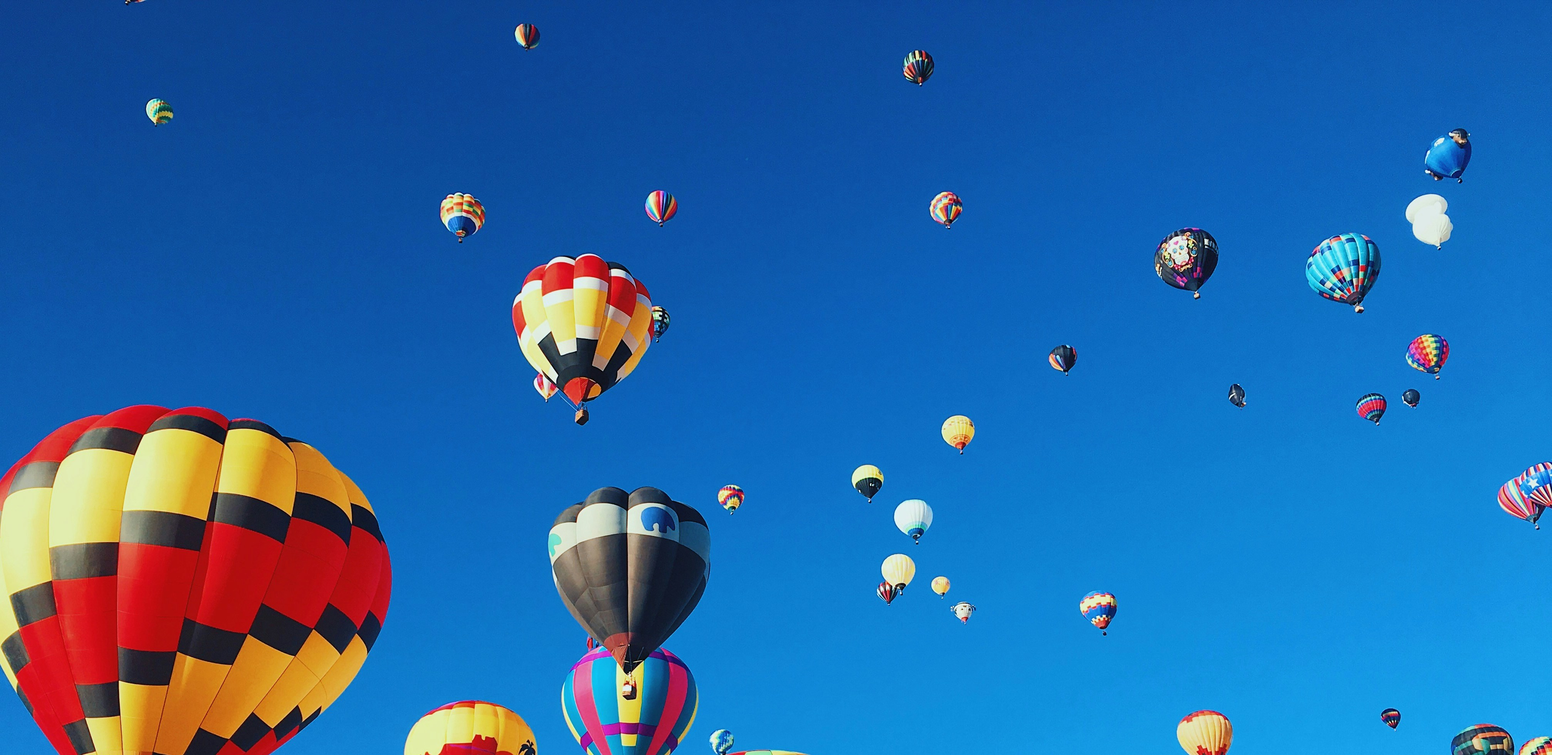
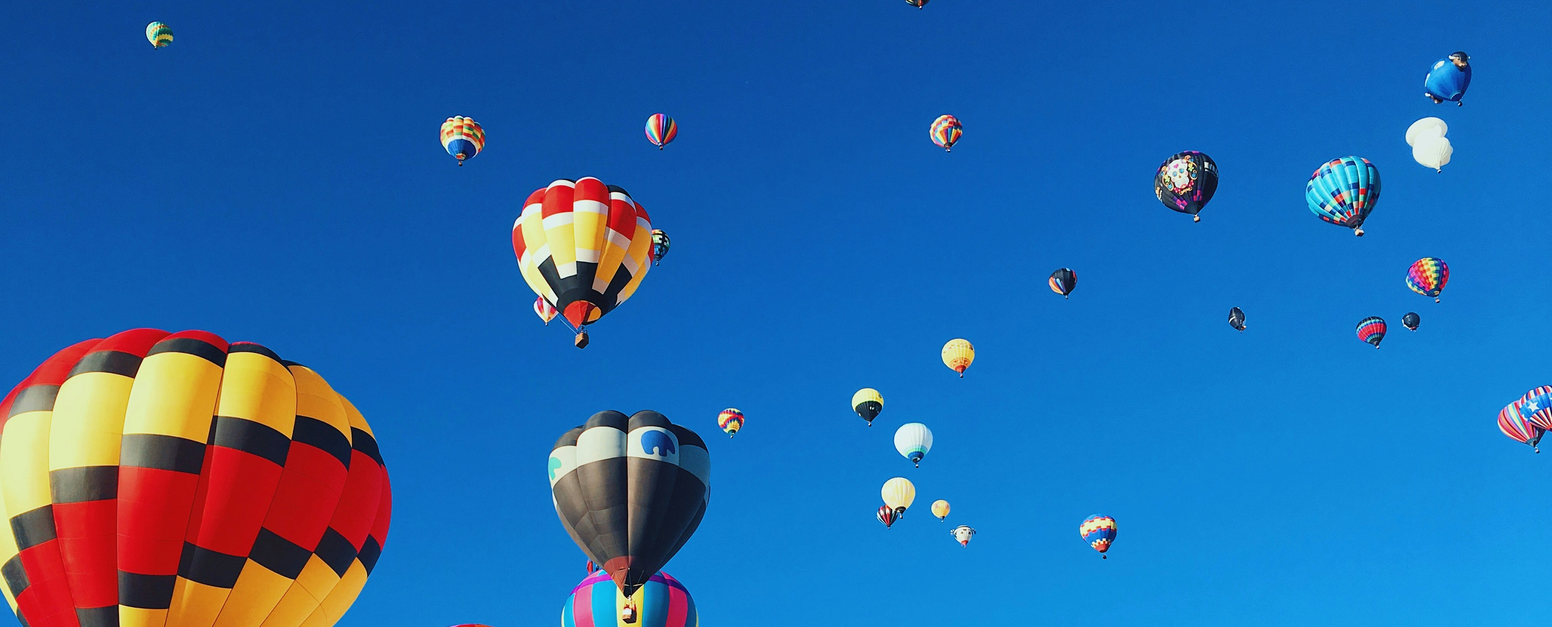
udpate first figure

diff --git a/_site/index.html b/_site/index.html
@@ -140,13 +140,16 @@
 </style>
 
 <section class="workshop-section" id="workshop">
-    <div class="container text-center" style="position: relative; background-image: url('img/balloons_2.png'); background-size: cover; height: 400px; border-radius: 15px; box-shadow: 0px 10px 30px rgba(0, 0, 0, 0.2); overflow: hidden;">
+    <div class="container text-center" style="position: relative; background-image: url('img/balloons.jpg'); background-size: cover; height: 400px; border-radius: 15px; box-shadow: 0px 10px 30px rgba(0, 0, 0, 0.2); overflow: hidden;">
+        <a href="https://unsplash.com/@kajhinkson?utm_content=creditCopyText&utm_medium=referral&utm_source=unsplash"><p style="position: absolute; bottom: 10px; right: 10px; margin: 0; font-size: 14px; color: white; background-color: rgba(0, 0, 0, 0.5); padding: 5px 10px; border-radius: 5px;">
+            Photo by Kyle Hinkson on Unsplash
+          </p></a>
         <div class="row" style="position: absolute; top: 50%; transform: translateY(-50%); width: 100%; z-index: 2;">
             <div class="col-lg-12 text-center">
                 <h2 class="section-heading" style="color: rgb(255, 255, 255); font-size: 54px; z-index: 2;"><strong>Welcome!</strong></h2>
                 <hr class="primary" style="border-color: #fefdfd;">
                 <p></p>
-                <p class="text-faded" style="color: rgb(56, 55, 55); font-size: 30px; z-index: 2;">
+                <p class="text-faded" style="color: rgb(255, 255, 255); font-size: 30px; z-index: 2;">
                     Welcome to the <strong>3<sup>rd</sup> Workshop on Cross-Cultural Considerations in NLP (C3NLP)</strong> Co-located with <a target="_blank" href="https://2025.naacl.org/">NAACL 2025</a>!
                 </p>
             </div>

diff --git a/_includes/cfp.html b/_includes/cfp.html
@@ -5,13 +5,16 @@
 </style>
 
 <section class="workshop-section" id="workshop">
-    <div class="container text-center" style="position: relative; background-image: url('img/balloons_2.png'); background-size: cover; height: 400px; border-radius: 15px; box-shadow: 0px 10px 30px rgba(0, 0, 0, 0.2); overflow: hidden;">
+    <div class="container text-center" style="position: relative; background-image: url('img/balloons.jpg'); background-size: cover; height: 400px; border-radius: 15px; box-shadow: 0px 10px 30px rgba(0, 0, 0, 0.2); overflow: hidden;">
+        <a href="https://unsplash.com/@kajhinkson?utm_content=creditCopyText&utm_medium=referral&utm_source=unsplash"><p style="position: absolute; bottom: 10px; right: 10px; margin: 0; font-size: 14px; color: white; background-color: rgba(0, 0, 0, 0.5); padding: 5px 10px; border-radius: 5px;">
+            Photo by Kyle Hinkson on Unsplash
+          </p></a>
         <div class="row" style="position: absolute; top: 50%; transform: translateY(-50%); width: 100%; z-index: 2;">
             <div class="col-lg-12 text-center">
                 <h2 class="section-heading" style="color: rgb(255, 255, 255); font-size: 54px; z-index: 2;"><strong>Welcome!</strong></h2>
                 <hr class="primary" style="border-color: #fefdfd;">
                 <p></p>
-                <p class="text-faded" style="color: rgb(56, 55, 55); font-size: 30px; z-index: 2;">
+                <p class="text-faded" style="color: rgb(255, 255, 255); font-size: 30px; z-index: 2;">
                     Welcome to the <strong>3<sup>rd</sup> Workshop on Cross-Cultural Considerations in NLP (C3NLP)</strong> Co-located with <a target="_blank" href="https://2025.naacl.org/">NAACL 2025</a>!
                 </p>
             </div>
